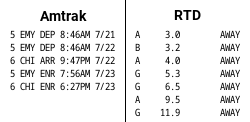
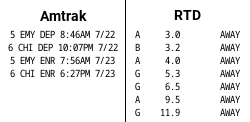
easier updates

diff --git a/index.html b/index.html
@@ -7,7 +7,7 @@
                     <link rel="stylesheet" href="style.css">
                 </head>
                 <body>
-                Last Update: Mon Jul 22 21:51:01 2024<table border="1" class="dataframe">
+                Last Update: Mon Jul 22 22:23:51 2024<table border="1" class="dataframe">
   <thead>
     <tr style="text-align: right;">
       <th>train_num</th>
@@ -21,35 +21,28 @@
     <tr>
       <td>5</td>
       <td>EMY</td>
-      <td>0</td>
-      <td>departed</td>
-      <td>08:46AM 07/21</td>
-    </tr>
-    <tr>
-      <td>5</td>
-      <td>EMY</td>
-      <td>37.4935302734375</td>
+      <td>10.7869997024536</td>
       <td>departed</td>
       <td>08:46AM 07/22</td>
     </tr>
     <tr>
       <td>6</td>
       <td>CHI</td>
-      <td>0.17398390173912</td>
-      <td>arrived</td>
-      <td>09:47PM 07/22</td>
+      <td>39.4819107055664</td>
+      <td>departed</td>
+      <td>10:07PM 07/22</td>
     </tr>
     <tr>
       <td>5</td>
       <td>EMY</td>
-      <td>66.4121322631836</td>
+      <td>0</td>
       <td>enroute</td>
       <td>07:56AM 07/23</td>
     </tr>
     <tr>
       <td>6</td>
       <td>CHI</td>
-      <td>79.3428573608398</td>
+      <td>78.1995391845703</td>
       <td>enroute</td>
       <td>06:27PM 07/23</td>
     </tr>
@@ -67,73 +60,73 @@
     <tr>
       <td>A</td>
       <td>2.958666</td>
-      <td>50751</td>
+      <td>52721</td>
       <td>away</td>
     </tr>
     <tr>
       <td>113B</td>
       <td>3.225959</td>
-      <td>50404</td>
+      <td>52374</td>
       <td>away</td>
     </tr>
     <tr>
       <td>A</td>
       <td>4.003553</td>
-      <td>50374</td>
+      <td>52344</td>
       <td>away</td>
     </tr>
     <tr>
       <td>113G</td>
       <td>5.295497</td>
-      <td>50365</td>
+      <td>52335</td>
       <td>away</td>
     </tr>
     <tr>
       <td>113G</td>
       <td>6.477563</td>
-      <td>50736</td>
+      <td>52706</td>
       <td>away</td>
     </tr>
     <tr>
       <td>A</td>
       <td>9.488040</td>
-      <td>50370</td>
+      <td>52340</td>
       <td>away</td>
     </tr>
     <tr>
       <td>113G</td>
       <td>11.886492</td>
-      <td>50393</td>
+      <td>52363</td>
       <td>away</td>
     </tr>
     <tr>
       <td>117N</td>
       <td>13.898798</td>
-      <td>50382</td>
+      <td>52352</td>
       <td>away</td>
     </tr>
     <tr>
       <td>117N</td>
       <td>16.782370</td>
-      <td>50417</td>
+      <td>52387</td>
       <td>away</td>
     </tr>
     <tr>
       <td>A</td>
       <td>17.869846</td>
-      <td>50366</td>
+      <td>52336</td>
       <td>away</td>
     </tr>
     <tr>
       <td>A</td>
       <td>19.487433</td>
-      <td>50869</td>
+      <td>52839</td>
       <td>away</td>
     </tr>
     <tr>
       <td>A</td>
       <td>20.263893</td>
-      <td>50413</td>
+      <td>52383</td>
       <td>away</td>
     </tr>
   </tbody>

diff --git a/display_refresh.py b/display_refresh.py
@@ -1,17 +1,16 @@
 from rtd import refresh_vehicles
 from amtrak import TrainTracker
-import time
 import pandas as pd
 from PIL import Image, ImageDraw, ImageFont
 import datetime
 
-rtd_df = refresh_vehicles()
+rtd_df = pd.read_json('hist_positions.json')
 tt = TrainTracker()
 tt.get_train_data()
 amtrak_df = tt.get_denver_train_df()
 
-time.sleep(15)
 new_positions = refresh_vehicles()
+new_positions.to_json('hist_positions.json')
 
 position_comparison = new_positions[['vehicle_label', 'route_id', 'distance', 'vehicle_update_seconds_ago']].merge(rtd_df[['vehicle_label', 'distance', 'vehicle_update_seconds_ago']], on='vehicle_label', suffixes=['_new', '_old'], how='left').fillna(9999)
 position_comparison['status'] = None
